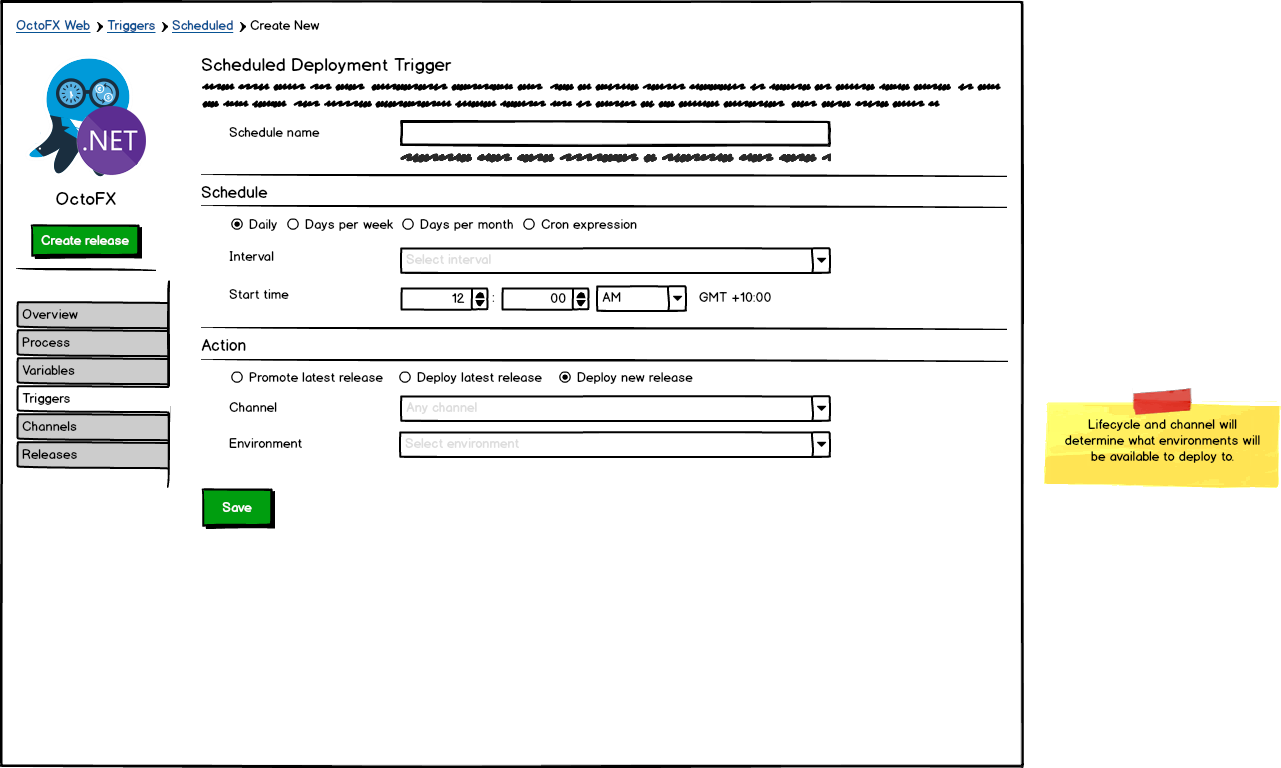
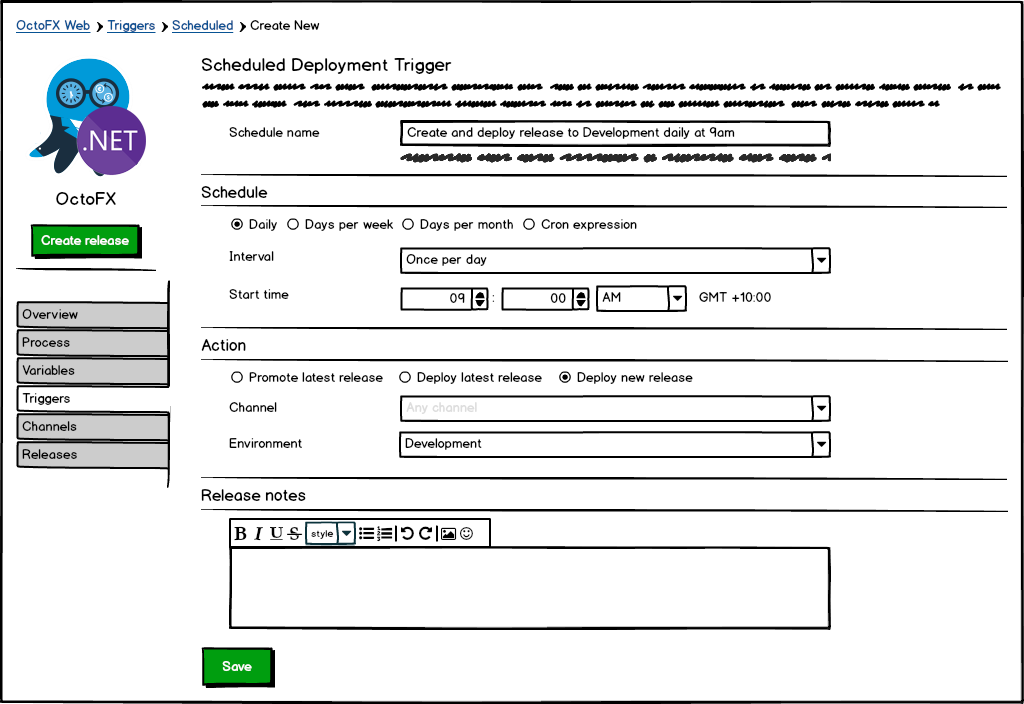
Add screenshots for prompted values

Changed region(s): [[0.0, 0.0, 1.0, 1.0], [0.0, 0.9688, 0.0625, 1.0]]

diff --git a/blog/2017-09/scheduled-recurring-deployments-rfc.md b/blog/2017-09/scheduled-recurring-deployments-rfc.md
@@ -111,8 +111,10 @@ Deploys the latest **successful** release in a project to the chosen environment
 
 Creates a new release and deploys this to the chosen environment.
 
-![](srd-create-and-deploy-release.png)
+![](srd-new-scheduled-trigger-deploy-new-release.png)
 
+**Deploying a new release with prompted values (such as package versions and prompted variables)**
+![](srd-new-scheduled-trigger-deploy-new-release-prompted-vars.png)
 
 ## Feedback
 
